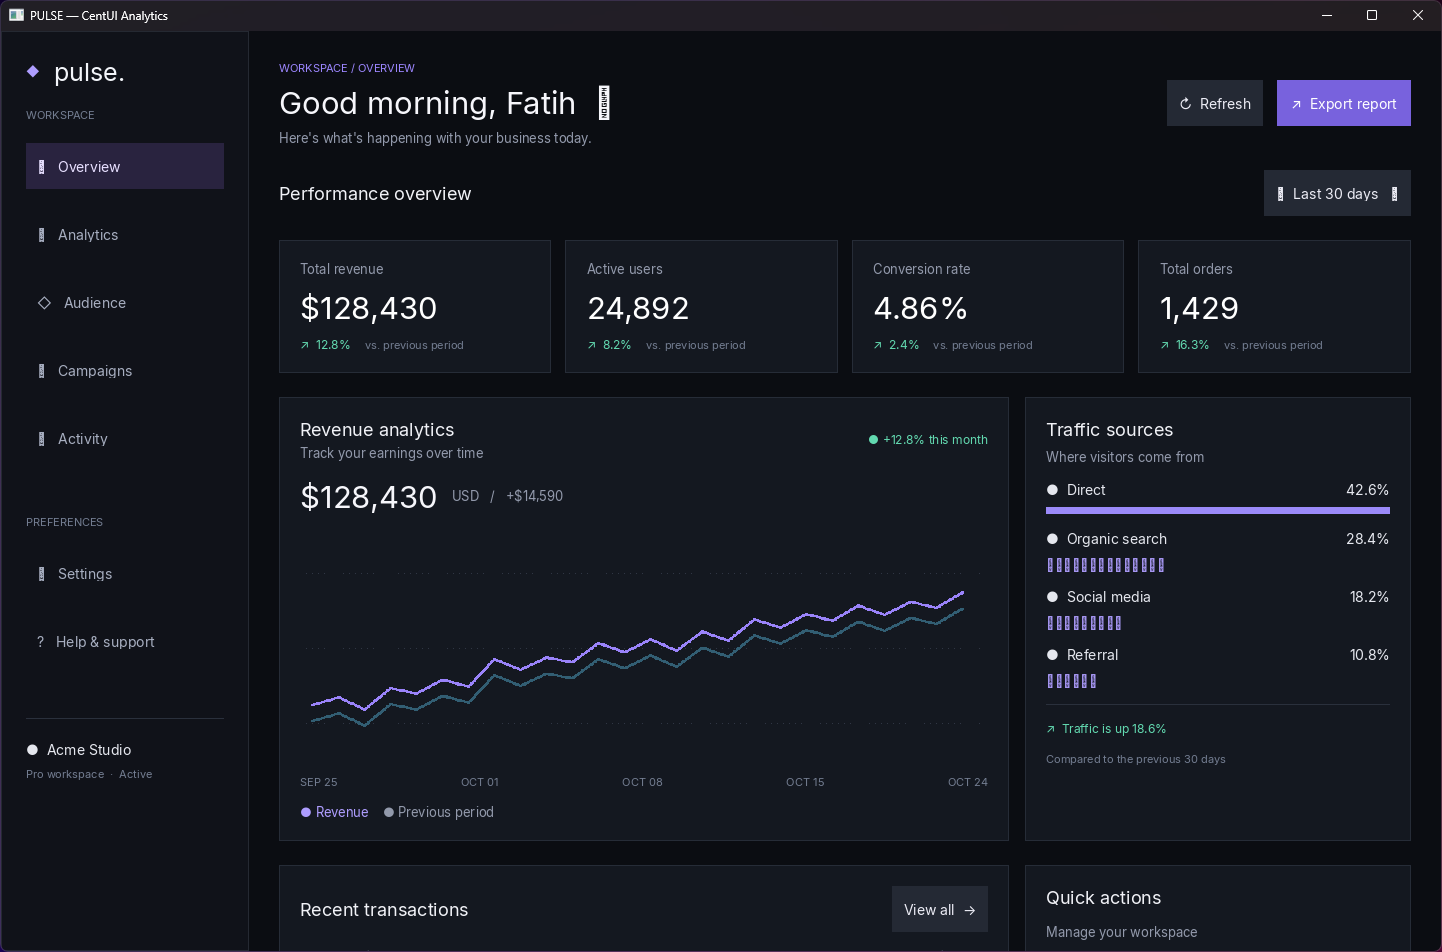
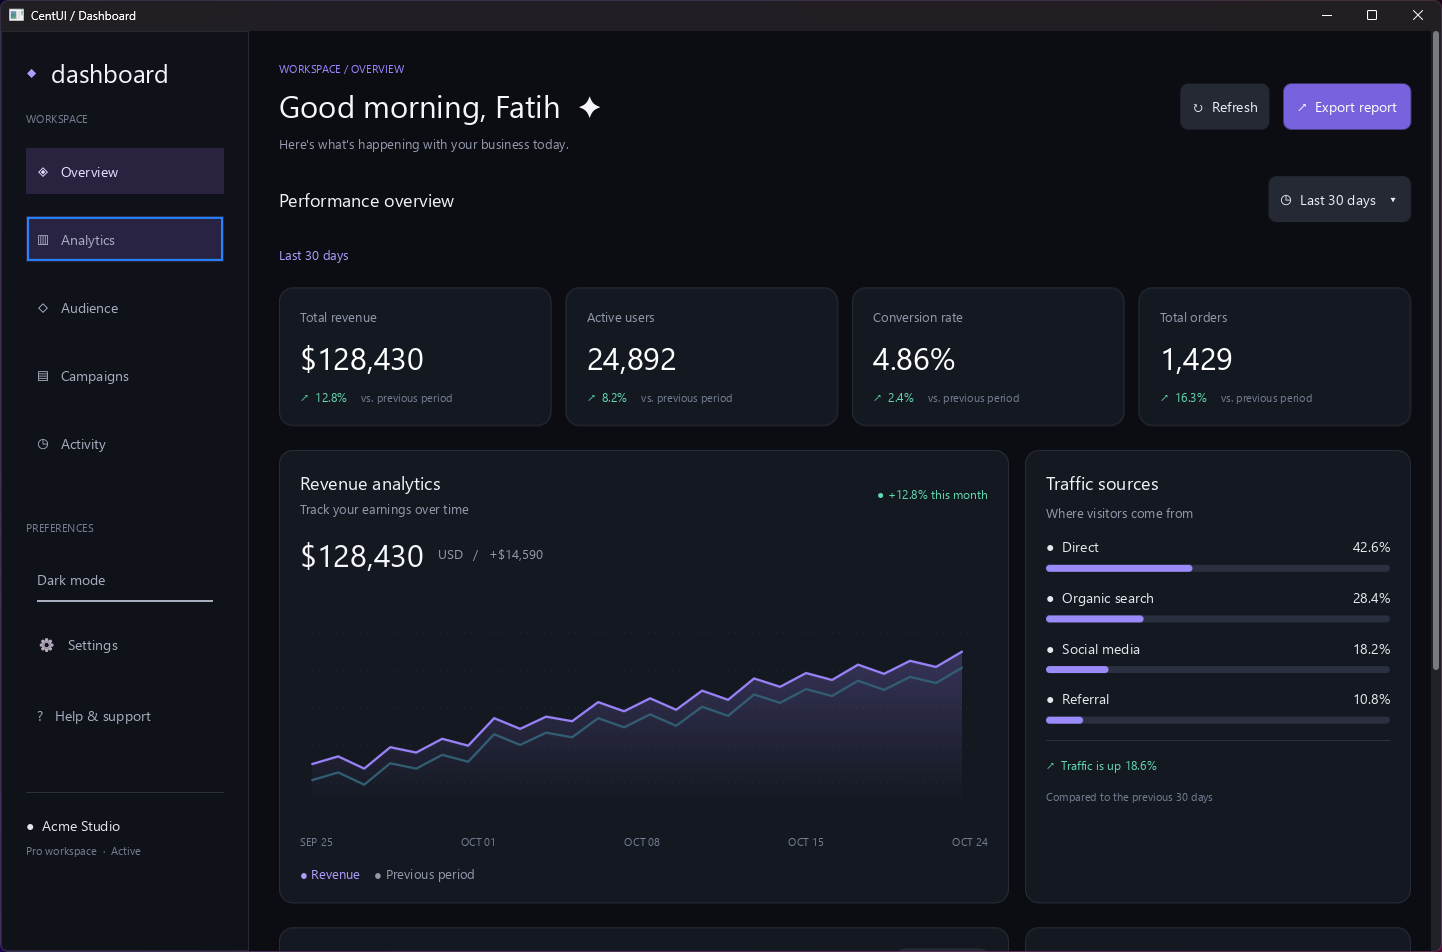
fix: dashboard example input size

diff --git a/tests/examples/dashboard/main.cpp b/tests/examples/dashboard/main.cpp
@@ -267,7 +267,7 @@ struct primary
 struct inputstyle
 {
     float corner_radius = 6;
-    length height = px(38);
+    length min_height = px(38);
     edges padding = edges::all(px(10));
     states_color background_color = solid(0x1D222D);
     centui::edges border_width = centui::edges::all(centui::px(1));
